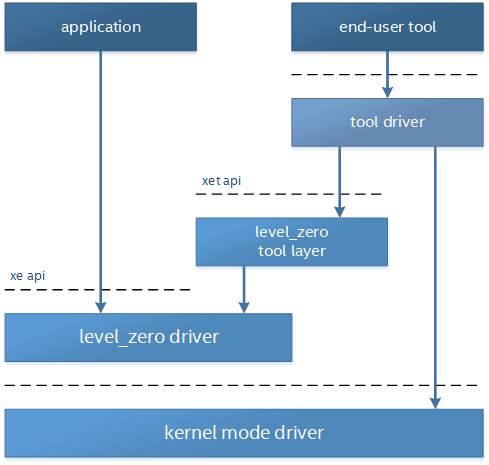
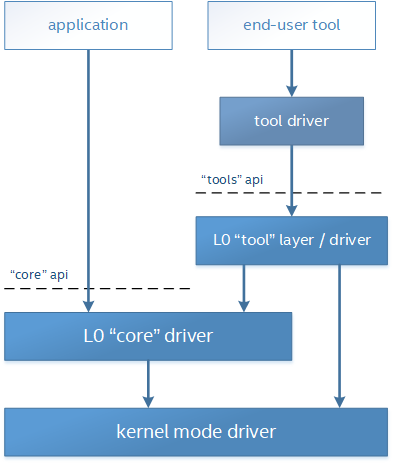
Update INTRO.md
Added new loader architecture

diff --git a/scripts/core/INTRO.md b/scripts/core/INTRO.md
@@ -144,7 +144,7 @@ The following design philosophies are adopted in order to reduce Host-side overh
     + non-visible memory access by the Host or device
     + non-resident memeory access by the device
 - all API functions return ::${x}_result_t
-    + this allows for a consistent pattern on the application side for catching errors; especially when validation layer(s) are enabled
+    + this allows for a consistent pattern on the application side for catching errors; especially when validation layer is enabled
 
 ${"##"} Multithreading and Concurrency
 The following design philosophies are adopted in order to maximize Host thread concurrency:
@@ -167,45 +167,68 @@ The primary usage-models enabled by these rules is:
 
 
 ${"#"} <a name="drv">Drivers</a>
-${"##"} Installation (WIP)
+
+${"##"} Loading
 ## --validate=off
-The Level-Zero API is implemented within a _${x}_vendor_device.dll_ (windows) / _${x}_vendor_device.so_ (linux), which is copied on the system during installation of the device driver;
-where _vendor_ and _device_ are names chosen by the device vendor.  For Intel GPUs, the name would be "${x}_intc_gpu".
+The Level-Zero driver(s) are loaded using a _${x}_vendor_loader.dll_ (windows) / _${x}_vendor_loader.so_ (linux), which is copied on the system during installation of the device driver;
+where _vendor_ is a name chosen by the device vendor.  For Intel GPUs, the name would be _${x}_intc_loader_.
 ## --validate=on
 
-This API does not define an Installable Client Driver (ICD), as it is expected that users of this API would prefer to implement
-their own device abstraction layer and communicate directly with the device-driver.
+The following diagram illustrates the driver architecture:  
+![Driver](../images/intro_driver.png?raw=true)  
+@image latex intro_driver.png
 
-${"##"} Validation Layers
-Validation layers provide the optional capability for application developers to enable additional API validation while maintaining minimal driver implementation overhead.
+- The loader initiates the loading of the validation layer and/or the common driver.
+- The loader maintains a per-process function pointer table.
+- The loader's function pointer table entries may point to:
+    + validation layer intercepts (if enabled)
+    + common driver exports (if more than one supported device group are present in the system)
+    + device group driver exports
+- The common driver determines which other device group-specific drivers need to be loaded based on which devices are present in the system.
+- The common driver may be bypassed entirely if there are no other device group drivers
+- If the common driver is needed, then it may implement specific APIs (such as memory allocation) and use private DDIs to notify device group-specific drivers
+
+${"##"} Validation Layer
+The validation layer provides an optional capability for application developers to enable additional API validation while maintaining minimal driver implementation overhead.
 - works independent of driver implementation
 - works for production / release drivers
-- checks for common application errors, such as null pointer parameters, invalid enumerations, uninitialized structures, etc.
+- checks for common application errors, such as parameter validation
 - provides for common application debug tracking, such as object and memory lifetime
 
-![Validation](../images/intro_val.png?raw=true)  
-@image latex intro_val.png
+The validation layer supports the following capabilities:
+- [**API Tracing**](#v1)
+    + enables API tracing and profiling APIs
+- [**Parameter Validation**](#v2)
+    + checks function parameters, such as null pointer parameters, invalid enumerations, uninitialized structures, etc.
+    + functions may return ::${X}_RESULT_ERROR_INVALID_PARAMETER or ::${X}_RESULT_ERROR_UNSUPPORTED
+- [**Handle Lifetime**](#v3)
+    + tracks handle allocations, destruction and usage for leaks and invalid usage (e.g., destruction while still in-use by device)
+- [**Memory Tracker**](#v4)
+    + tracks memory allocations and free for leaks and invalid usage (e.g., non-visible to device)
+- [**Threading Validation**](#v5)
+    + checks multi-threading usage (e.g., functions are not called from simultaneous threads using the same handle)
 
-The validation layers are enabled via environment variables.
+The validation layer is enabled via an [environment variable](#v0).
 
 ${"##"} Environment Variables
 The following table documents the supported knobs for overriding default driver behavior.
 ## --validate=off
-| Category            | Name                                    | Values                 | Description                                                  |
-|---------------------|-----------------------------------------|------------------------|--------------------------------------------------------------|
-| Memory              | ${X}_SHARED_FORCE_DEVICE_ALLOC          | {**0**, 1}             | Forces all shared allocations into device memory             |
-| Validation          | ${X}_ENABLE_VALIDATION_LAYER            | {**0**, 1}             | Enables validation layer(s) for debugging                    |
-| ^                   | ${X}_ENABLE_PARAMETER_VALIDATION        | {**0**, 1}             | Enables the validation level for parameters                  |
-| ^                   | ${X}_ENABLE_HANDLE_LIFETIME             | {**0**, 1}             | Enables the validation level for tracking handle lifetime    |
-| ^                   | ${X}_ENABLE_THREADING_VALIDATION        | {**0**, 1}             | Enables the validation level for multithreading usage        |
-| ^                   | ${X}_ENABLE_MEMORY_TRACKER              | {**0**, 1}             | Enables the validation level for tracking memory lifetime    |
+| Category            | Name                                                | Values                 | Description                                                  |
+|---------------------|-----------------------------------------------------|------------------------|--------------------------------------------------------------|
+| Memory              | ${X}_SHARED_FORCE_DEVICE_ALLOC                      | {**0**, 1}             | Forces all shared allocations into device memory             |
+| Validation          | <a name="v0">${X}_ENABLE_VALIDATION_LAYER</a>       | {**0**, 1}             | Enables validation layer(s) for debugging                    |
+| ^                   | <a name="v0">${X}_ENABLE_API_TRACING</a>            | {**0**, 1}             | Enables the validation level for tracing API calls           |
+| ^                   | <a name="v0">${X}_ENABLE_PARAMETER_VALIDATION</a>   | {**0**, 1}             | Enables the validation level for parameters                  |
+| ^                   | <a name="v0">${X}_ENABLE_HANDLE_LIFETIME</a>        | {**0**, 1}             | Enables the validation level for tracking handle lifetime    |
+| ^                   | <a name="v0">${X}_ENABLE_MEMORY_TRACKER</a>         | {**0**, 1}             | Enables the validation level for tracking memory lifetime    |
+| ^                   | <a name="v0">${X}_ENABLE_THREADING_VALIDATION</a>   | {**0**, 1}             | Enables the validation level for multithreading usage        |
 ## --validate=on
 
 
 ${"#"} <a name="tls">Tools</a> (WIP)
 Level-Zero APIs specific for supporting 3rd-party tools are seperated from "Core" into "Tools" APIs.
 
-The following diagram illustrates the hierachy of "Core" versus "Tool" APIs:
+The following diagram illustrates the hierachy of "Core" versus "Tool" APIs:  
 ![Tool](../images/intro_tools.png?raw=true)  
 @image latex intro_tools.png
 

diff --git a/core/INTRO.md b/core/INTRO.md
@@ -138,7 +138,7 @@ The following design philosophies are adopted in order to reduce Host-side overh
     + non-visible memory access by the Host or device
     + non-resident memeory access by the device
 - all API functions return ::xe_result_t
-    + this allows for a consistent pattern on the application side for catching errors; especially when validation layer(s) are enabled
+    + this allows for a consistent pattern on the application side for catching errors; especially when validation layer is enabled
 
 ## Multithreading and Concurrency
 The following design philosophies are adopted in order to maximize Host thread concurrency:
@@ -161,41 +161,64 @@ The primary usage-models enabled by these rules is:
 
 
 # <a name="drv">Drivers</a>
-## Installation (WIP)
-The Level-Zero API is implemented within a _xe_vendor_device.dll_ (windows) / _xe_vendor_device.so_ (linux), which is copied on the system during installation of the device driver;
-where _vendor_ and _device_ are names chosen by the device vendor.  For Intel GPUs, the name would be "xe_intc_gpu".
 
-This API does not define an Installable Client Driver (ICD), as it is expected that users of this API would prefer to implement
-their own device abstraction layer and communicate directly with the device-driver.
+## Loading
+The Level-Zero driver(s) are loaded using a _xe_vendor_loader.dll_ (windows) / _xe_vendor_loader.so_ (linux), which is copied on the system during installation of the device driver;
+where _vendor_ is a name chosen by the device vendor.  For Intel GPUs, the name would be _xe_intc_loader_.
 
-## Validation Layers
-Validation layers provide the optional capability for application developers to enable additional API validation while maintaining minimal driver implementation overhead.
+The following diagram illustrates the driver architecture:  
+![Driver](../images/intro_driver.png?raw=true)  
+@image latex intro_driver.png
+
+- The loader initiates the loading of the validation layer and/or the common driver.
+- The loader maintains a per-process function pointer table.
+- The loader's function pointer table entries may point to:
+    + validation layer intercepts (if enabled)
+    + common driver exports (if more than one supported device group are present in the system)
+    + device group driver exports
+- The common driver determines which other device group-specific drivers need to be loaded based on which devices are present in the system.
+- The common driver may be bypassed entirely if there are no other device group drivers
+- If the common driver is needed, then it may implement specific APIs (such as memory allocation) and use private DDIs to notify device group-specific drivers
+
+## Validation Layer
+The validation layer provides an optional capability for application developers to enable additional API validation while maintaining minimal driver implementation overhead.
 - works independent of driver implementation
 - works for production / release drivers
-- checks for common application errors, such as null pointer parameters, invalid enumerations, uninitialized structures, etc.
+- checks for common application errors, such as parameter validation
 - provides for common application debug tracking, such as object and memory lifetime
 
-![Validation](../images/intro_val.png?raw=true)  
-@image latex intro_val.png
+The validation layer supports the following capabilities:
+- [**API Tracing**](#v1)
+    + enables API tracing and profiling APIs
+- [**Parameter Validation**](#v2)
+    + checks function parameters, such as null pointer parameters, invalid enumerations, uninitialized structures, etc.
+    + functions may return ::XE_RESULT_ERROR_INVALID_PARAMETER or ::XE_RESULT_ERROR_UNSUPPORTED
+- [**Handle Lifetime**](#v3)
+    + tracks handle allocations, destruction and usage for leaks and invalid usage (e.g., destruction while still in-use by device)
+- [**Memory Tracker**](#v4)
+    + tracks memory allocations and free for leaks and invalid usage (e.g., non-visible to device)
+- [**Threading Validation**](#v5)
+    + checks multi-threading usage (e.g., functions are not called from simultaneous threads using the same handle)
 
-The validation layers are enabled via environment variables.
+The validation layer is enabled via an [environment variable](#v0).
 
 ## Environment Variables
 The following table documents the supported knobs for overriding default driver behavior.
-| Category            | Name                                    | Values                 | Description                                                  |
-|---------------------|-----------------------------------------|------------------------|--------------------------------------------------------------|
-| Memory              | XE_SHARED_FORCE_DEVICE_ALLOC          | {**0**, 1}             | Forces all shared allocations into device memory             |
-| Validation          | XE_ENABLE_VALIDATION_LAYER            | {**0**, 1}             | Enables validation layer(s) for debugging                    |
-| ^                   | XE_ENABLE_PARAMETER_VALIDATION        | {**0**, 1}             | Enables the validation level for parameters                  |
-| ^                   | XE_ENABLE_HANDLE_LIFETIME             | {**0**, 1}             | Enables the validation level for tracking handle lifetime    |
-| ^                   | XE_ENABLE_THREADING_VALIDATION        | {**0**, 1}             | Enables the validation level for multithreading usage        |
-| ^                   | XE_ENABLE_MEMORY_TRACKER              | {**0**, 1}             | Enables the validation level for tracking memory lifetime    |
+| Category            | Name                                                | Values                 | Description                                                  |
+|---------------------|-----------------------------------------------------|------------------------|--------------------------------------------------------------|
+| Memory              | XE_SHARED_FORCE_DEVICE_ALLOC                      | {**0**, 1}             | Forces all shared allocations into device memory             |
+| Validation          | <a name="v0">XE_ENABLE_VALIDATION_LAYER</a>       | {**0**, 1}             | Enables validation layer(s) for debugging                    |
+| ^                   | <a name="v0">XE_ENABLE_API_TRACING</a>            | {**0**, 1}             | Enables the validation level for tracing API calls           |
+| ^                   | <a name="v0">XE_ENABLE_PARAMETER_VALIDATION</a>   | {**0**, 1}             | Enables the validation level for parameters                  |
+| ^                   | <a name="v0">XE_ENABLE_HANDLE_LIFETIME</a>        | {**0**, 1}             | Enables the validation level for tracking handle lifetime    |
+| ^                   | <a name="v0">XE_ENABLE_MEMORY_TRACKER</a>         | {**0**, 1}             | Enables the validation level for tracking memory lifetime    |
+| ^                   | <a name="v0">XE_ENABLE_THREADING_VALIDATION</a>   | {**0**, 1}             | Enables the validation level for multithreading usage        |
 
 
 # <a name="tls">Tools</a> (WIP)
 Level-Zero APIs specific for supporting 3rd-party tools are seperated from "Core" into "Tools" APIs.
 
-The following diagram illustrates the hierachy of "Core" versus "Tool" APIs:
+The following diagram illustrates the hierachy of "Core" versus "Tool" APIs:  
 ![Tool](../images/intro_tools.png?raw=true)  
 @image latex intro_tools.png
 
